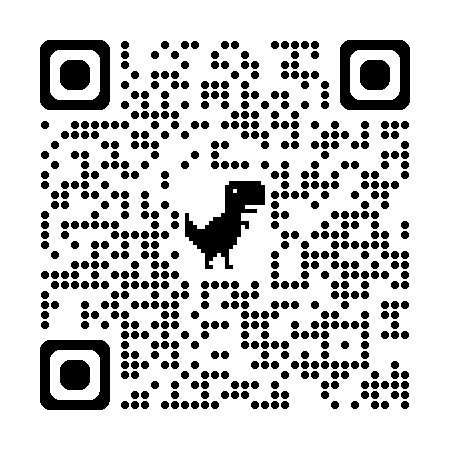
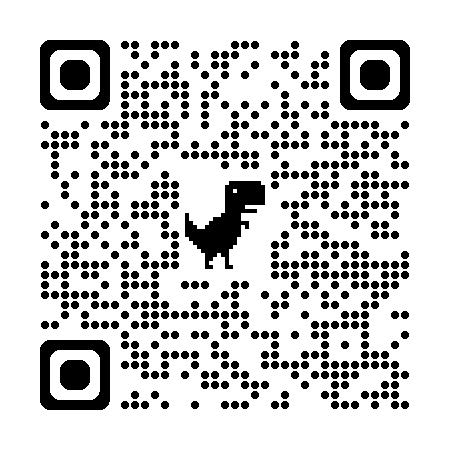
-

diff --git a/2024-07-22/doc.qr.md b/2024-07-22/doc.qr.md
@@ -1,0 +1,2 @@
+<img src="doc.qr.png" width="225px" height="225px"><br>
+https://kuso800t.github.io/2024-07-22/doc.html
